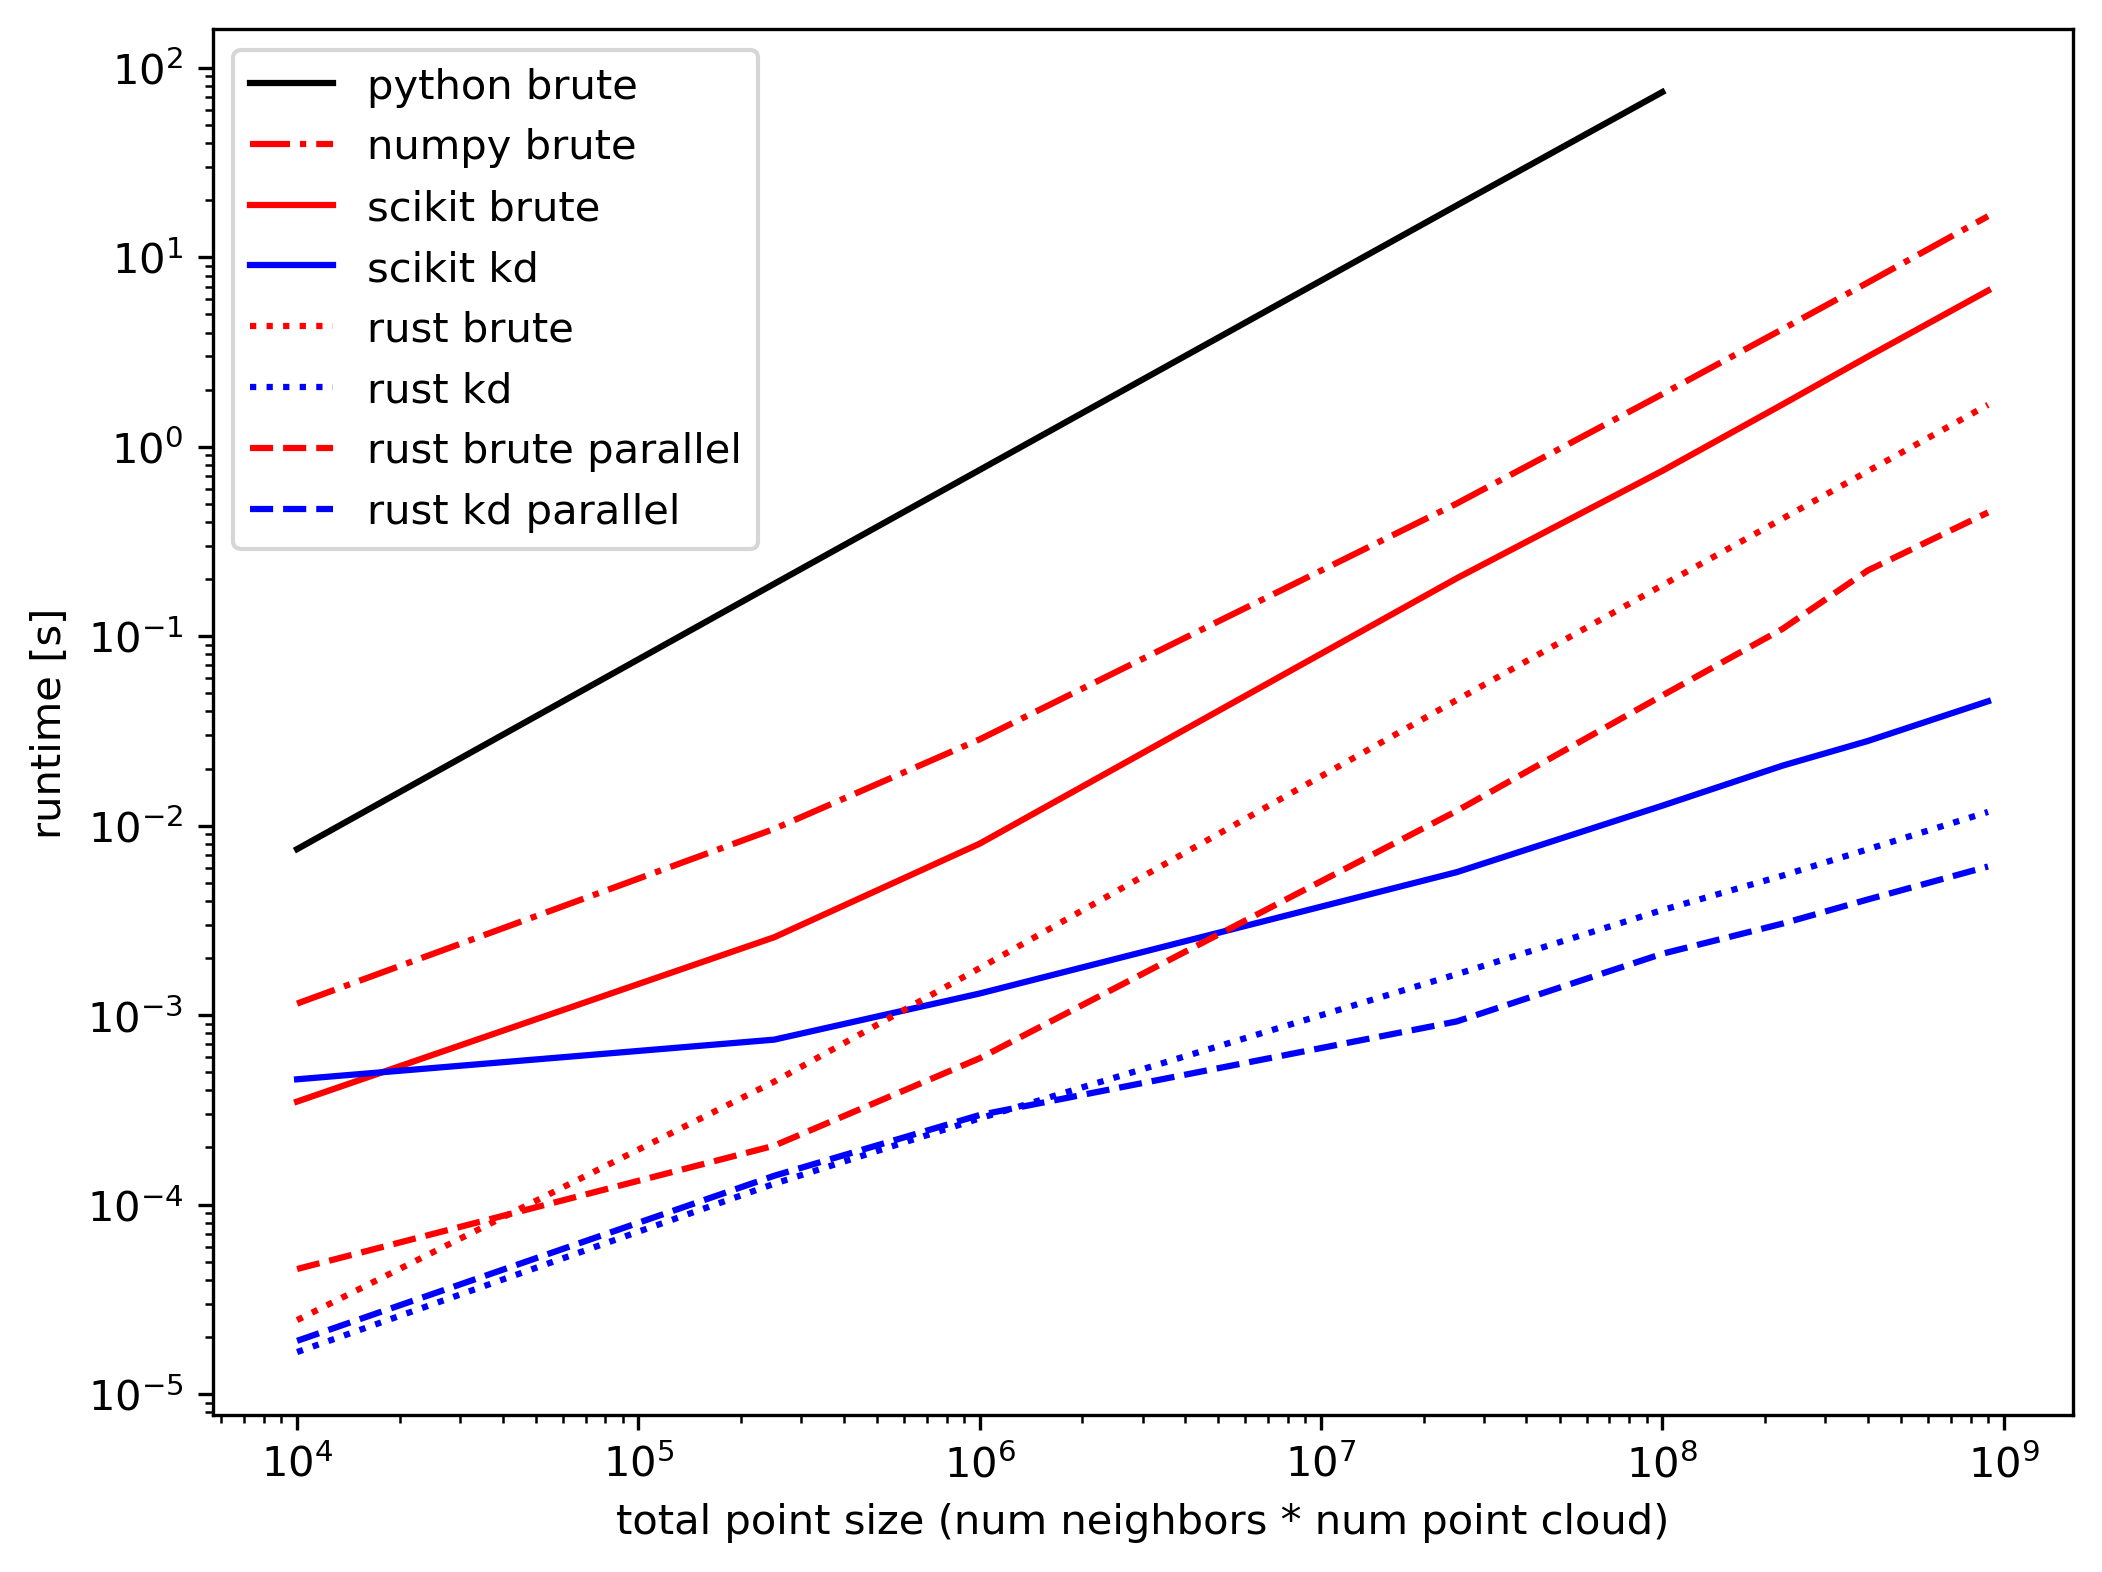
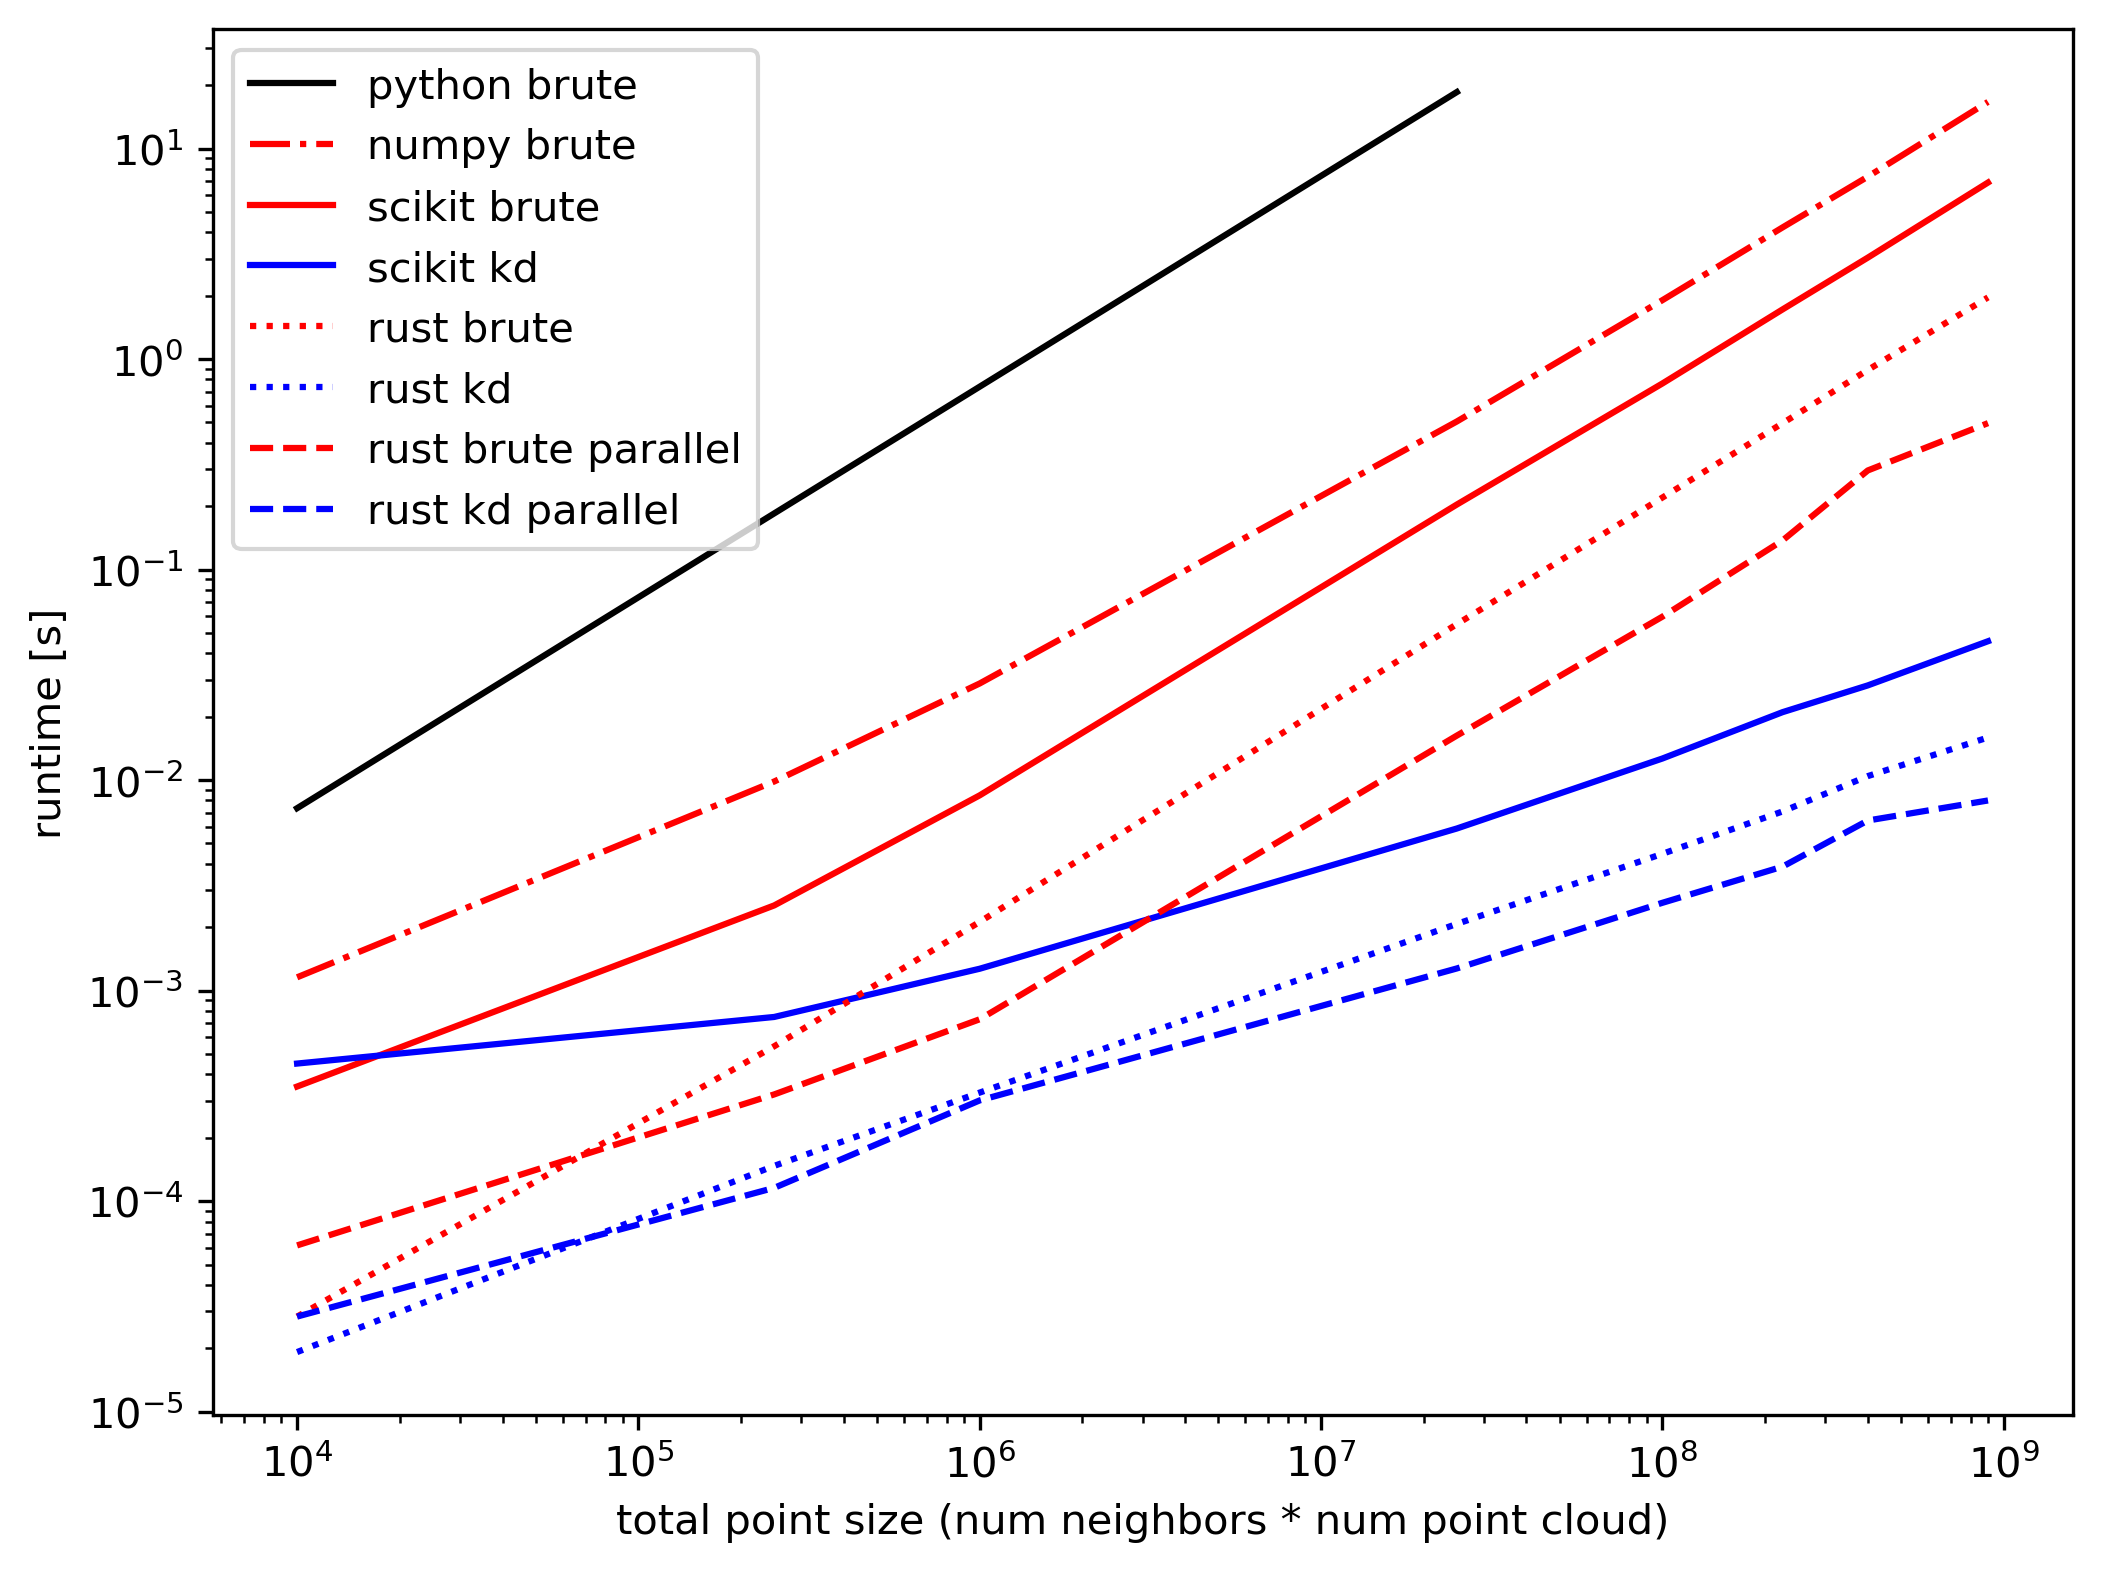
fix benches

diff --git a/benches/brute_force.rs b/benches/brute_force.rs
@@ -1,11 +1,18 @@
-use toha_nearest_neighbor::brute_force;
-use toha_nearest_neighbor::brute_force_par;
+use toha::brute_force;
+use toha::brute_force_par;
+use toha::{IndexAndDistance, LocationAndDistance, SingleIndexDistance, SinglePointDistance};
+use toha_nearest_neighbor as toha;
 
 use criterion::{black_box, criterion_group, criterion_main, Criterion};
 
 use ndarray::Array2;
 use ndarray_rand::rand_distr::Uniform;
 use ndarray_rand::RandomExt;
+
+//const LINE_POINTS : [usize; 3] = [1,5,20];
+//const CLOUD_POINTS : [usize; 3] = [1,10,20];
+const LINE_POINTS: [usize; 2] = [1, 5];
+const CLOUD_POINTS: [usize; 2] = [1, 10];
 
 fn create_data(line_length: usize, points_length: usize) -> (Array2<f64>, Array2<f64>) {
     let lines = ndarray::Array2::random((line_length, 2), Uniform::new(0.0, 10.0));
@@ -15,32 +22,61 @@ fn create_data(line_length: usize, points_length: usize) -> (Array2<f64>, Array2
 }
 
 fn serial(c: &mut Criterion) {
-    let lines_pts = [1, 5, 20];
-    let clout_pts = [1, 10, 20];
-
-    for (line_ct, cloud_ct) in lines_pts.into_iter().zip(clout_pts) {
+    for (line_ct, cloud_ct) in LINE_POINTS.into_iter().zip(CLOUD_POINTS) {
         let (lines, points) = create_data(line_ct * 1000, cloud_ct * 1000);
-        let name =
-            format!("brute force | serial | {line_ct}k line points |  {cloud_ct}k cloud points");
+        let name = format!(
+            "brute force location | serial | {line_ct}k line points |  {cloud_ct}k cloud points"
+        );
 
         c.bench_function(&name, |b| {
-            b.iter(|| black_box(brute_force(lines.view(), points.view())))
+            b.iter(|| {
+                black_box(brute_force::<SinglePointDistance, LocationAndDistance>(
+                    lines.view(),
+                    points.view(),
+                ))
+            })
+        });
+
+        let name = format!(
+            "brute force index | serial | {line_ct}k line points |  {cloud_ct}k cloud points"
+        );
+
+        c.bench_function(&name, |b| {
+            b.iter(|| {
+                black_box(brute_force::<SingleIndexDistance, IndexAndDistance>(
+                    lines.view(),
+                    points.view(),
+                ))
+            })
         });
     }
 }
 
 fn parallel(c: &mut Criterion) {
-    let lines_pts = [1, 5, 20];
-    let clout_pts = [1, 10, 20];
-
-    for (line_ct, cloud_ct) in lines_pts.into_iter().zip(clout_pts) {
+    for (line_ct, cloud_ct) in LINE_POINTS.into_iter().zip(CLOUD_POINTS) {
         let (lines, points) = create_data(line_ct * 1000, cloud_ct * 1000);
         let name =
             format!("brute force | parallel | {line_ct}k line points |  {cloud_ct}k cloud points");
 
         c.bench_function(&name, |b| {
             b.iter(|| {
-                black_box(brute_force_par(lines.view(), points.view()));
+                black_box(brute_force_par::<SingleIndexDistance, IndexAndDistance>(
+                    lines.view(),
+                    points.view(),
+                ));
+            })
+        });
+
+        let name = format!(
+            "brute force index | parallel | {line_ct}k line points |  {cloud_ct}k cloud points"
+        );
+
+        c.bench_function(&name, |b| {
+            b.iter(|| {
+                black_box(brute_force_par::<SingleIndexDistance, IndexAndDistance>(
+                    lines.view(),
+                    points.view(),
+                ))
             })
         });
     }

diff --git a/benches/tree.rs b/benches/tree.rs
@@ -1,11 +1,19 @@
-use toha_nearest_neighbor::kd_tree;
-use toha_nearest_neighbor::kd_tree_par;
+use toha::kd_tree_index;
+use toha::kd_tree_index_par;
+use toha::kd_tree_location;
+use toha::kd_tree_location_par;
+use toha_nearest_neighbor as toha;
 
 use criterion::{black_box, criterion_group, criterion_main, Criterion};
 
 use ndarray::Array2;
 use ndarray_rand::rand_distr::Uniform;
 use ndarray_rand::RandomExt;
+
+//const LINE_POINTS : [usize; 3] = [1,5,20];
+//const CLOUD_POINTS : [usize; 3] = [1,10,20];
+const LINE_POINTS: [usize; 2] = [1, 5];
+const CLOUD_POINTS: [usize; 2] = [1, 10];
 
 fn create_data(line_length: usize, points_length: usize) -> (Array2<f64>, Array2<f64>) {
     let lines = ndarray::Array2::random((line_length, 2), Uniform::new(0.0, 10.0));
@@ -15,31 +23,45 @@ fn create_data(line_length: usize, points_length: usize) -> (Array2<f64>, Array2
 }
 
 fn serial(c: &mut Criterion) {
-    let lines_pts = [1, 5, 20];
-    let clout_pts = [1, 10, 20];
-
-    for (line_ct, cloud_ct) in lines_pts.into_iter().zip(clout_pts) {
+    for (line_ct, cloud_ct) in LINE_POINTS.into_iter().zip(CLOUD_POINTS) {
         let (lines, points) = create_data(line_ct * 1000, cloud_ct * 1000);
-        let name = format!("kd tree | serial | {line_ct}k line points |  {cloud_ct}k cloud points");
+        let name = format!(
+            "kd tree location | serial | {line_ct}k line points |  {cloud_ct}k cloud points"
+        );
 
         c.bench_function(&name, |b| {
-            b.iter(|| black_box(kd_tree(lines.view(), points.view())))
+            b.iter(|| black_box(kd_tree_location(lines.view(), points.view())))
+        });
+
+        let name =
+            format!("kd tree index| serial | {line_ct}k line points |  {cloud_ct}k cloud points");
+
+        c.bench_function(&name, |b| {
+            b.iter(|| black_box(kd_tree_index(lines.view(), points.view())))
         });
     }
 }
 
 fn parallel(c: &mut Criterion) {
-    let lines_pts = [1, 5, 20];
-    let clout_pts = [1, 10, 20];
-
-    for (line_ct, cloud_ct) in lines_pts.into_iter().zip(clout_pts) {
+    for (line_ct, cloud_ct) in LINE_POINTS.into_iter().zip(CLOUD_POINTS) {
         let (lines, points) = create_data(line_ct * 1000, cloud_ct * 1000);
-        let name =
-            format!("kd tree | parallel | {line_ct}k line points |  {cloud_ct}k cloud points");
+        let name = format!(
+            "kd tree location | parallel | {line_ct}k line points |  {cloud_ct}k cloud points"
+        );
 
         c.bench_function(&name, |b| {
             b.iter(|| {
-                black_box(kd_tree_par(lines.view(), points.view()));
+                black_box(kd_tree_location_par(lines.view(), points.view()));
+            })
+        });
+
+        let name = format!(
+            "kd tree index | parallel | {line_ct}k line points |  {cloud_ct}k cloud points"
+        );
+
+        c.bench_function(&name, |b| {
+            b.iter(|| {
+                black_box(kd_tree_index_par(lines.view(), points.view()));
             })
         });
     }

diff --git a/scripts/plots.py b/scripts/plots.py
@@ -53,12 +53,12 @@ def bench_scikit(lines: np.ndarray, cloud: np.ndarray, algorithm: str):
     return
 
 def bench_rust_brute(lines: np.ndarray, cloud: np.ndarray, parallel: bool):
-    toha.brute_force(lines, cloud, parallel)
+    toha.brute_force_index(lines, cloud, parallel)
 
     return
 
 def bench_rust_kd(lines: np.ndarray, cloud: np.ndarray, parallel: bool):
-    toha.kd_tree(lines, cloud, parallel)
+    toha.kd_tree_index(lines, cloud, parallel)
 
     return
 
@@ -105,7 +105,7 @@ def bench_all():
         xs.append(line_size * cloud_size)
 
         # python brute
-        if line_size <= 10_000:
+        if line_size <= 5_000:
             python_xs.append(line_size * cloud_size)
 
             l = lambda : bench_python_brute(lines, clouds)

diff --git a/src/lib.rs b/src/lib.rs
@@ -91,7 +91,7 @@ struct SinglePointDistanceRef<'a> {
 }
 
 #[derive(Debug, PartialEq, Clone)]
-struct SinglePointDistance {
+pub struct SinglePointDistance {
     point: [f64; 2],
     distance: f64,
 }
@@ -104,7 +104,7 @@ pub struct SingleIndexPointDistance {
 }
 
 #[derive(Debug, PartialEq, Clone)]
-struct SingleIndexDistance {
+pub struct SingleIndexDistance {
     index: usize,
     distance: f64,
 }

diff --git a/src/brute_force.rs b/src/brute_force.rs
@@ -92,7 +92,7 @@ fn min_distance_to_point(
 
             let line_point = [line_x, line_y];
 
-            let distance = (point[0] - line_x).powi(2) + (point[1] - line_y).powi(2);
+            let distance = (point[0] - line_point[0]).powi(2) + (point[1] - line_point[1]).powi(2);
 
             SingleIndexPointDistance {
                 distance,
